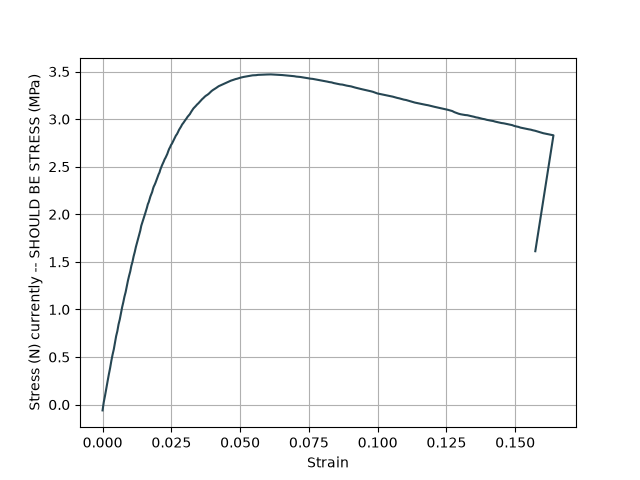
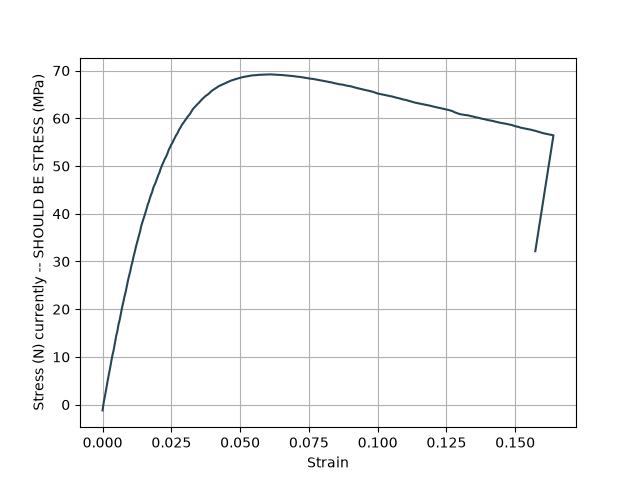
broken commit due to hardness dimensions. look into later

Changed region(s): [[0.0312, 0.125, 0.9062, 0.875], [0.7812, 0.2188, 0.9062, 0.25]]

diff --git a/lab-2/data_processing.py b/lab-2/data_processing.py
@@ -11,11 +11,10 @@ def csv_to_array(csv_filename, skip_rows):
     return pd.read_csv(os.path.join(DATA_DIR, csv_filename), skiprows=skip_rows).to_numpy()
 
 def find_properties(stress, strain, initial_gage_diameter, final_gage_diameter):
-    print(stress.shape, strain.shape, initial_gage_diameter.shape, final_gage_diameter.shape)
     elastic_modulus = stress/strain
     yield_strength = stress[np.where(strain >= 0.002)[0][0]]
     ultimate_strength = np.max(stress)
-    elongation_percent = 100 * ((final_gage_diameter-initial_gage_diameter)/initial_gage_diameter)
+    elongation_percent = 100 * (abs(final_gage_diameter-initial_gage_diameter)/initial_gage_diameter)
     resilience_modulus = yield_strength**2/(2*elastic_modulus)
     return np.array([elastic_modulus, yield_strength, ultimate_strength, elongation_percent, resilience_modulus], dtype=object)
 
@@ -49,10 +48,9 @@ def main():
         force = np.array(force)
         strain = np.array(strain)
         area = np.pi * (initial_gage_diameters[i]/2)**2
-        stress = force/area
+        stress = force/area * 1000 #MPa
         
         material_label = material[4:-6]
-        print(material_label)
         if material_label == "PMMA":
             plt.savefig(os.path.join(IMAGES_DIR, 'stress_strain_curves.png'))
             plt.close()
@@ -79,9 +77,63 @@ def main():
     Deliverable 2
     """
     for j in range(len(file_names)):
-        print(find_properties(stress, strain, initial_gage_diameters[j], final_gage_diameters[j]))
+        find_properties(stress, strain, initial_gage_diameters[j], final_gage_diameters[j])
     
-    
+    """
+    Deliverable 3
+    """
+    for j in range(len(file_names)-2):
+        time, displacement, force, strain = dataset[j]
+        force = np.array(force)
+        strain = np.array(strain)
+        area = np.pi * (initial_gage_diameters[j]/2)**2
+        stress = force/area * 1000
+        hardness = rockwell_hardness[j]
+        
+        elastic_modulus, yield_strength, ultimate_strength, elongation_percent, resilience_modulus = find_properties(stress, strain, initial_gage_diameters[j], final_gage_diameters[j])
+
+        fig, ((ax1, ax2), (ax3, ax4)) = plt.subplots(2, 2)
+
+        ax1.plot(hardness, elastic_modulus, color=COLORS[0])
+        ax1.set_xlabel('Rockwell Hardness B-scale (HRB)')
+        ax1.set_ylabel('Elastic Modulus (MPa)')
+        ax1.grid()
+
+        ax2.plot(hardness, yield_strength, color=COLORS[1], label="Yield Strength")
+        ultimate_strengths = np.full(len(rockwell_hardness), ultimate_strength)
+        ax2.plot(hardness, ultimate_strengths, color = COLORS[2], label="Ultimate Strength")
+        ax2.set_xlabel('Rockwell Hardness B-scale (HRB)')
+        ax2.set_ylabel('Strength (MPa)')
+        ax2.legend()
+        ax2.grid()
+
+        ax3.plot(hardness, elongation_percent, color=COLORS[3])
+        ax3.set_xlabel('Rockwell Hardness B-scale (HRB)')
+        ax3.set_ylabel('Elongation (%)')
+        ax3.grid()
+
+        ax4.plot(hardness, resilience_modulus, color=COLORS[4])
+        ax4.set_xlabel('Rockwell Hardness B-scale (HRB)')
+        ax4.set_ylabel('Modulus of Resilience (MPa)')
+        ax4.grid()
+
+        match j:
+            case 0:
+                material_name='304SS'
+            case 1:
+                material_name='1018CR'
+            case 2:
+                material_name='1045NM'
+            case 3:
+                material_name='2024'
+
+        plt.tight_layout()
+        plt.savefig(os.path.join(IMAGES_DIR, f'{material_name}_dev3.png'))
+        plt.close()
+
+
+
+            
 
 
 
